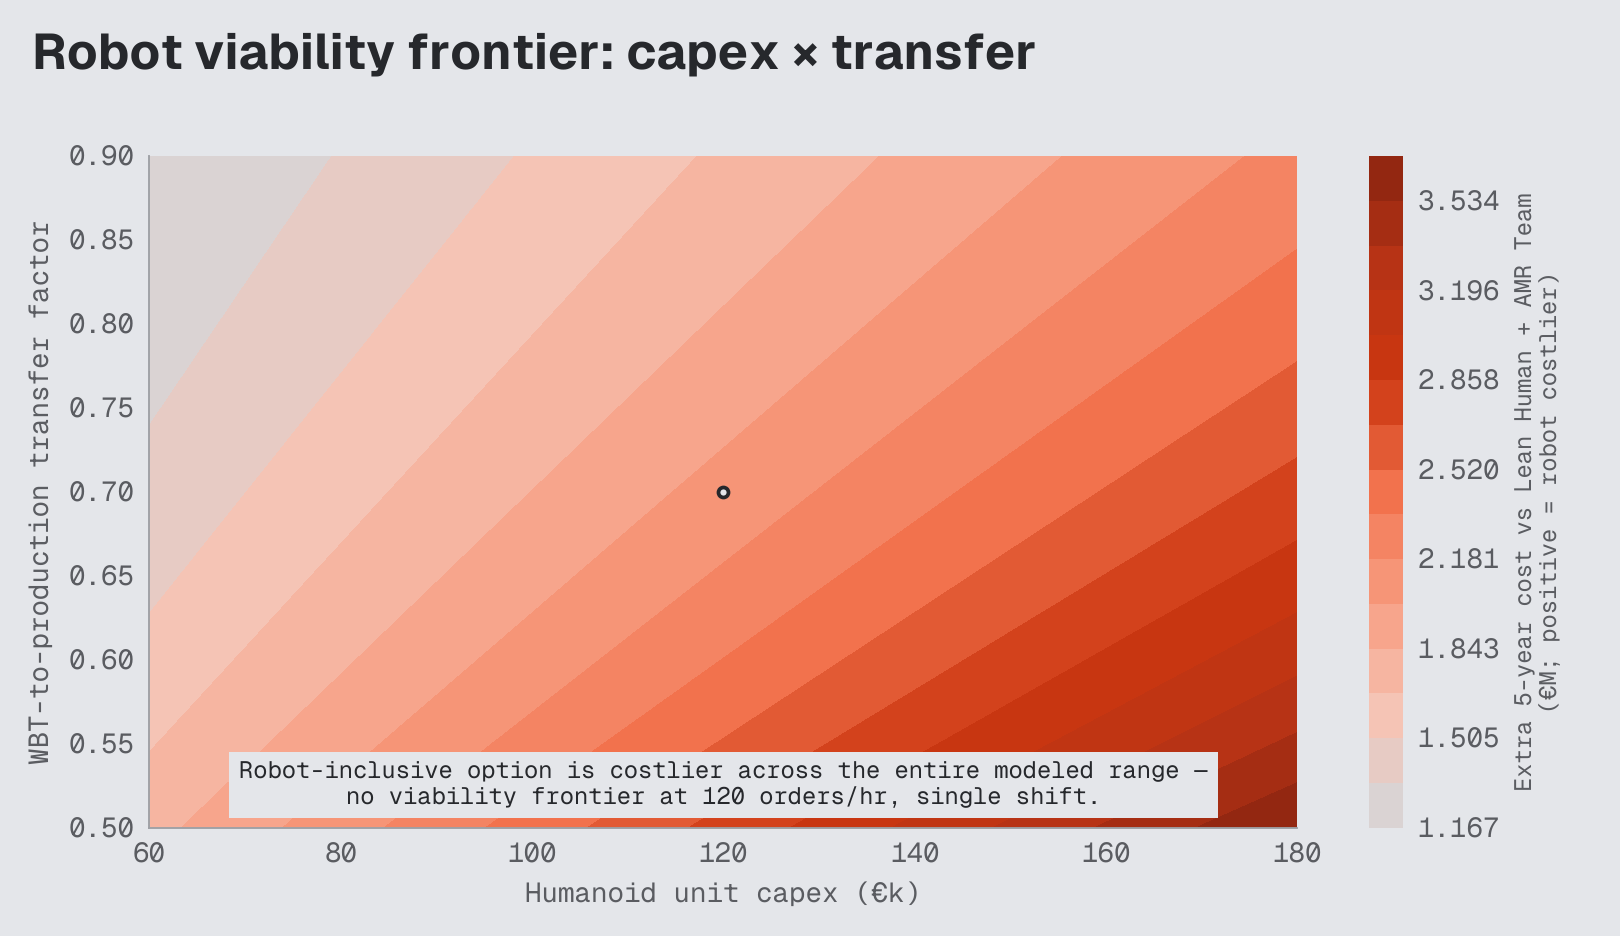
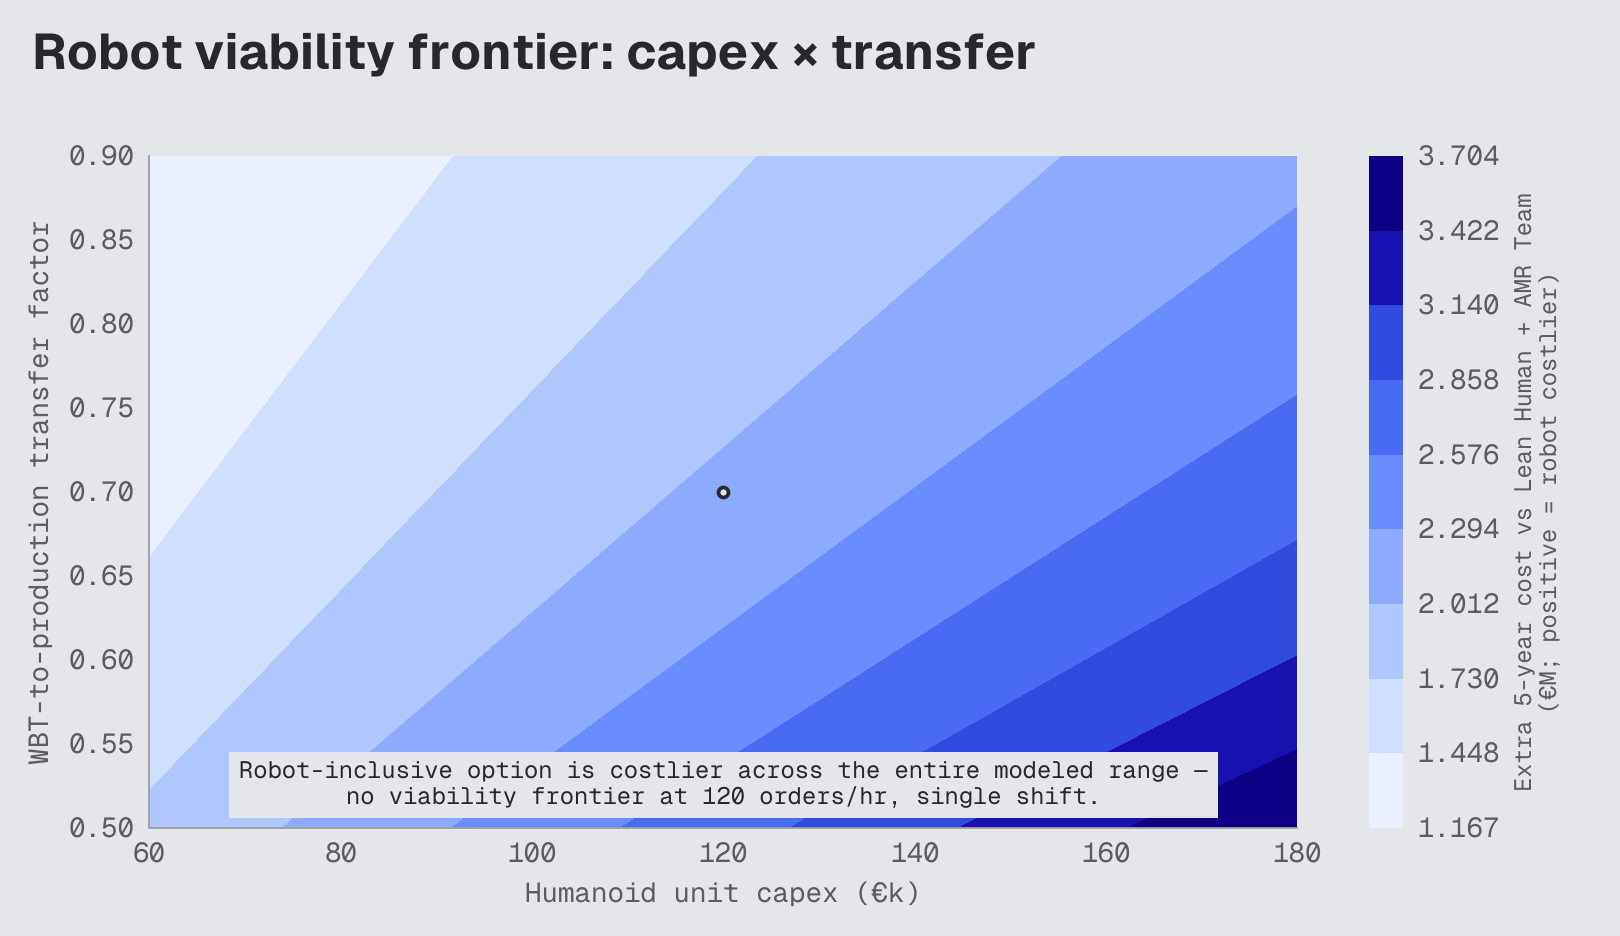
Frontier charts: sequential scale when the grid has no cost tie
A one-sided grid used one arm of the diverging scale normalised over its own
range, so the tie grey stood for EUR 1.2M of extra cost and the 16 bands were
too close in hue to tell apart. One-sided grids now take the sequential scale,
one band per step; grids that cross zero keep the diverging scale at zero.

Claude-Session: https://claude.ai/code/session_017JXfGqfFadubVauUqq2nZv

diff --git a/scripts/generate_f225_frontiers.py b/scripts/generate_f225_frontiers.py
@@ -8,7 +8,13 @@ from pathlib import Path
 import bk_theme as bk
 import matplotlib.pyplot as plt
 import numpy as np
-from matplotlib.colors import LinearSegmentedColormap, Normalize, TwoSlopeNorm
+from matplotlib.colors import (
+    BoundaryNorm,
+    LinearSegmentedColormap,
+    ListedColormap,
+    Normalize,
+    TwoSlopeNorm,
+)
 
 from warehouse_humanoid_tco.analysis.sensitivity import (
     SCENARIO_COMPOSITIONS,
@@ -80,20 +86,28 @@ def robot_frontier(
     return capex_wage, capex_transfer
 
 
-def cost_delta_scale(z_min: float, z_max: float) -> tuple[LinearSegmentedColormap, Normalize]:
-    """The design system's good/bad diverging scale, with its neutral midpoint at a cost tie.
+def cost_delta_scale(
+    z_min: float, z_max: float
+) -> tuple[np.ndarray, LinearSegmentedColormap | ListedColormap, Normalize]:
+    """Contour levels, colour map and norm for the cost delta.
 
-    Negative (robot cheaper) takes the good arm, positive (robot costlier) the bad arm. When the
-    whole grid sits on one side of zero only that arm is used, so the neutral grey always means
-    a tie and never a mid-range cost.
+    When the grid crosses zero, the design system's good/bad diverging scale with its neutral
+    midpoint at the cost tie. When the whole grid sits on one side of zero there is no tie to
+    show, so the magnitude takes the sequential scale, one band per step, so every band can be
+    told apart (the diverging scale's single arm cannot carry that many steps).
     """
-    stops = bk.palette("div")  # index 0 = darkest good, last = darkest bad
-    mid = len(stops) // 2
     if z_min < 0.0 < z_max:
-        cmap = LinearSegmentedColormap.from_list("bk-div", stops)
-        return cmap, TwoSlopeNorm(vmin=z_min, vcenter=0.0, vmax=z_max)
-    arm = stops[mid:] if z_min >= 0.0 else stops[: mid + 1]
-    return LinearSegmentedColormap.from_list("bk-div-arm", arm), Normalize(z_min, z_max)
+        cmap = LinearSegmentedColormap.from_list("bk-div", bk.palette("div"))
+        return (
+            np.linspace(z_min, z_max, 16),
+            cmap,
+            TwoSlopeNorm(vmin=z_min, vcenter=0.0, vmax=z_max),
+        )
+    steps = bk.palette("seq")[::-1]  # lightest first
+    if z_max <= 0.0:
+        steps = steps[::-1]  # larger saving (more negative) reads darker
+    levels = np.linspace(z_min, z_max, len(steps) + 1)
+    return levels, ListedColormap(steps, "bk-seq"), BoundaryNorm(levels, len(steps))
 
 
 def chart(
@@ -108,8 +122,7 @@ def chart(
     # sign convention on the colorbar label was also inverted.)
     zm = -z / 1_000_000
     z_min, z_max = float(zm.min()), float(zm.max())
-    levels = np.linspace(z_min, z_max, 16)
-    cmap, norm = cost_delta_scale(z_min, z_max)
+    levels, cmap, norm = cost_delta_scale(z_min, z_max)
     image = axis.contourf(x / 1_000, y, zm, levels=levels, cmap=cmap, norm=norm)
     if z_min < 0.0 < z_max:
         # The tie line is the chart's one highlight: it is the decision boundary.
